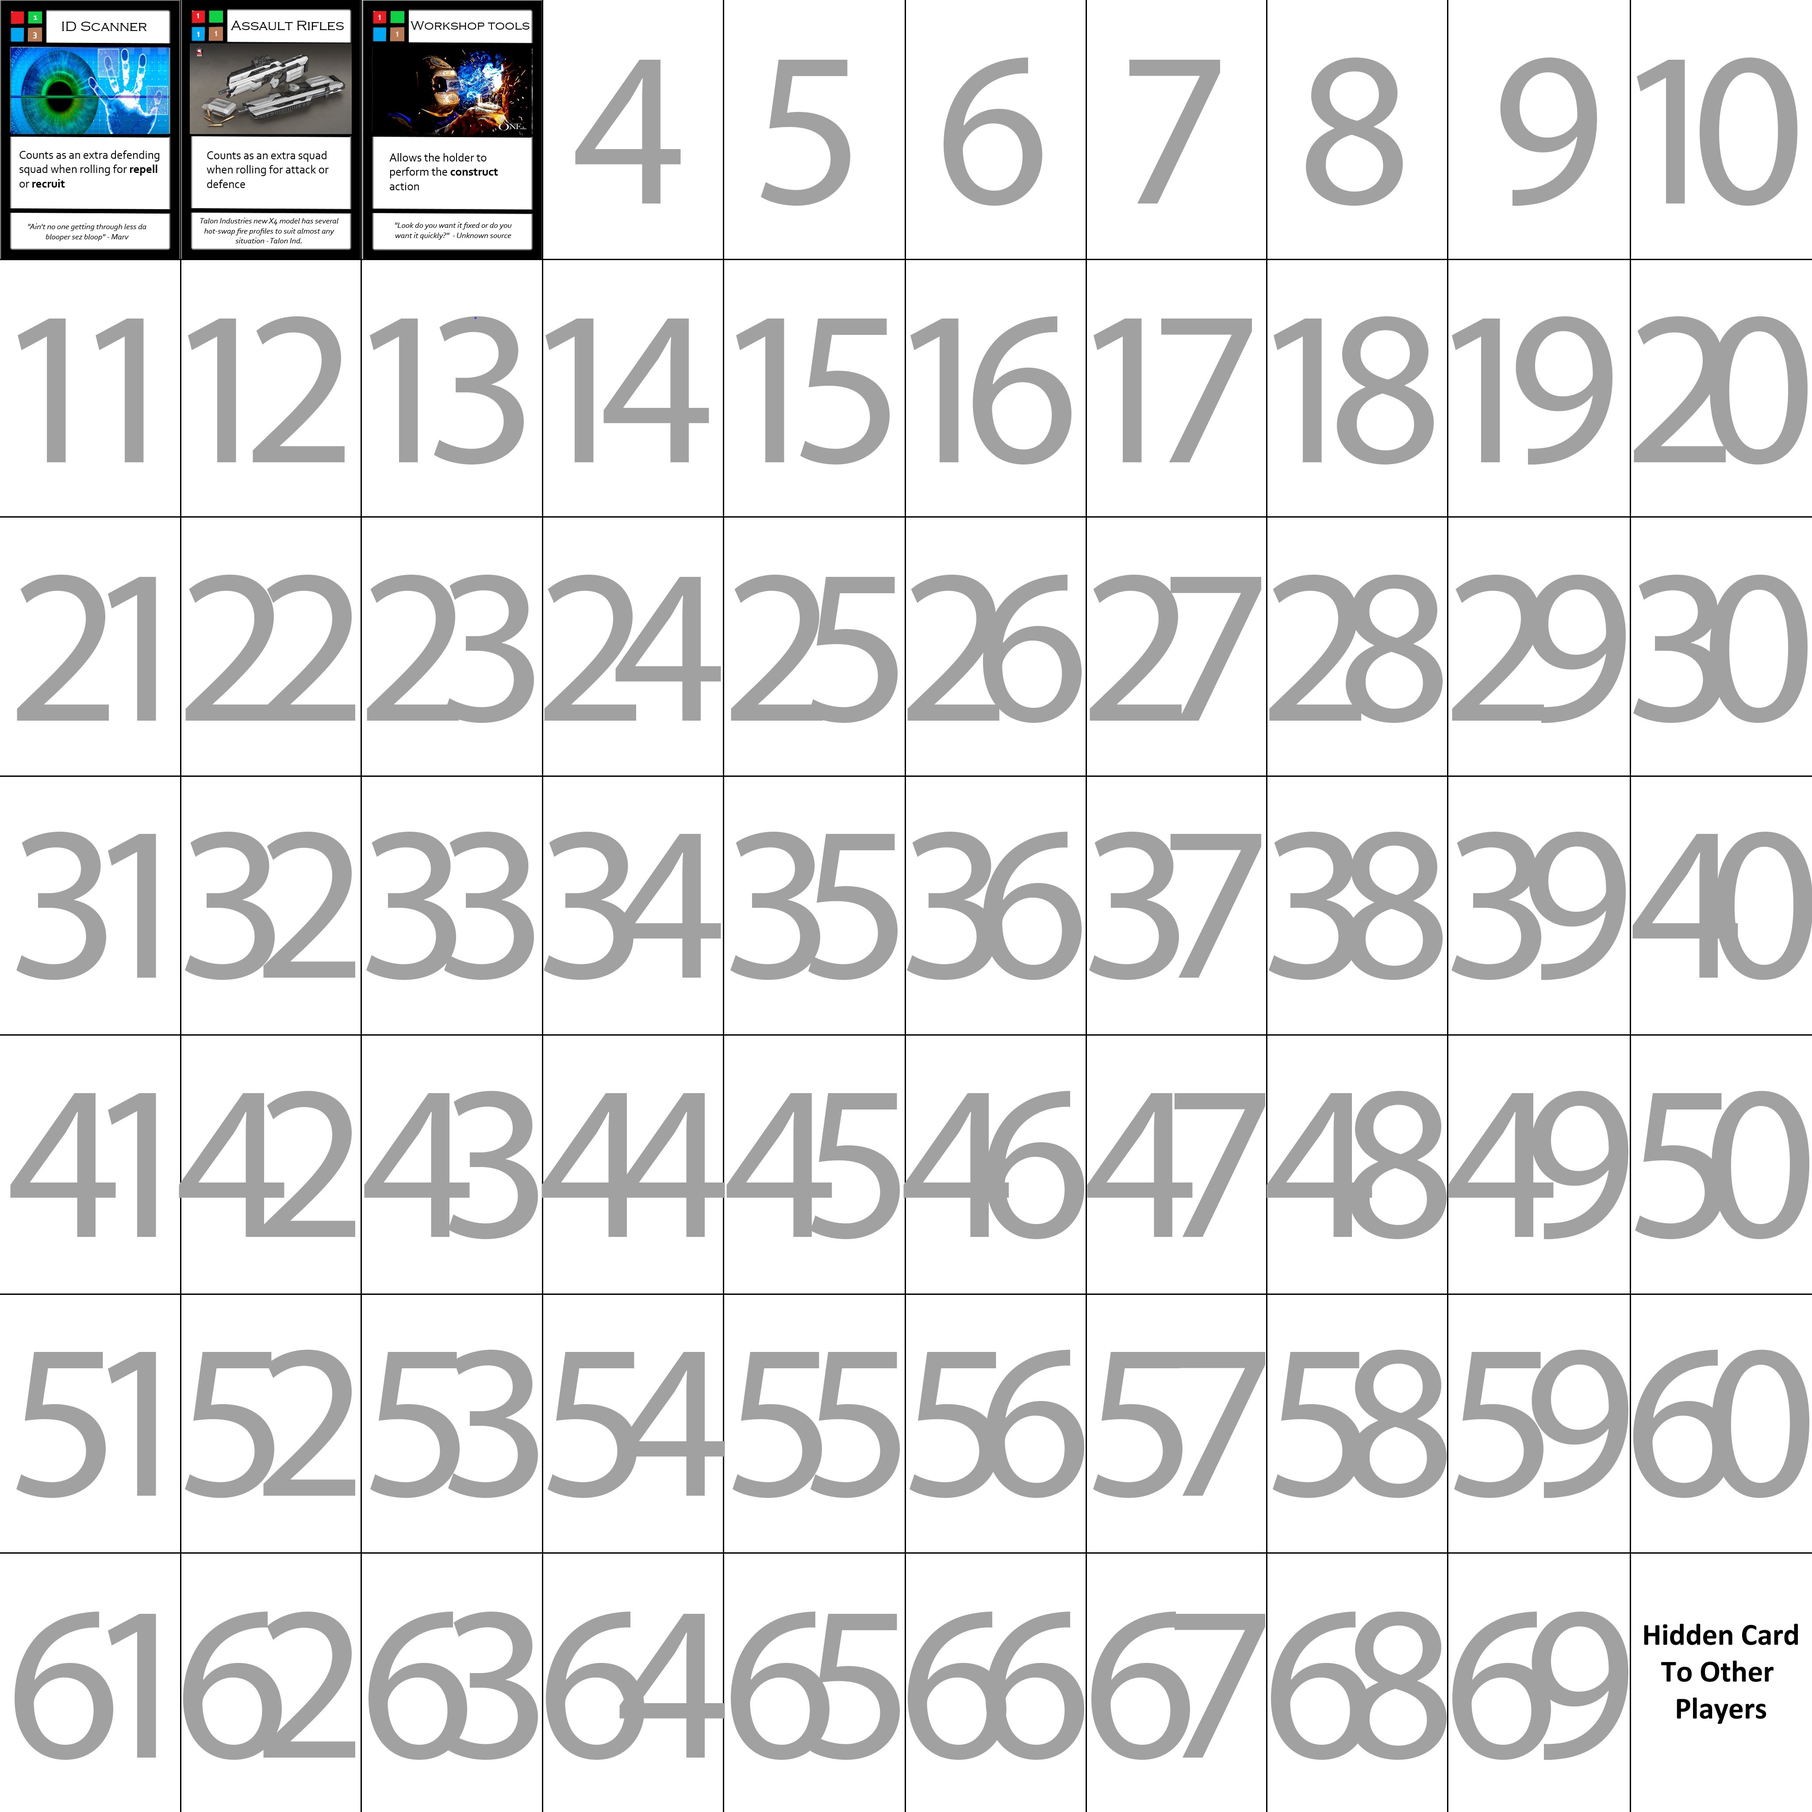
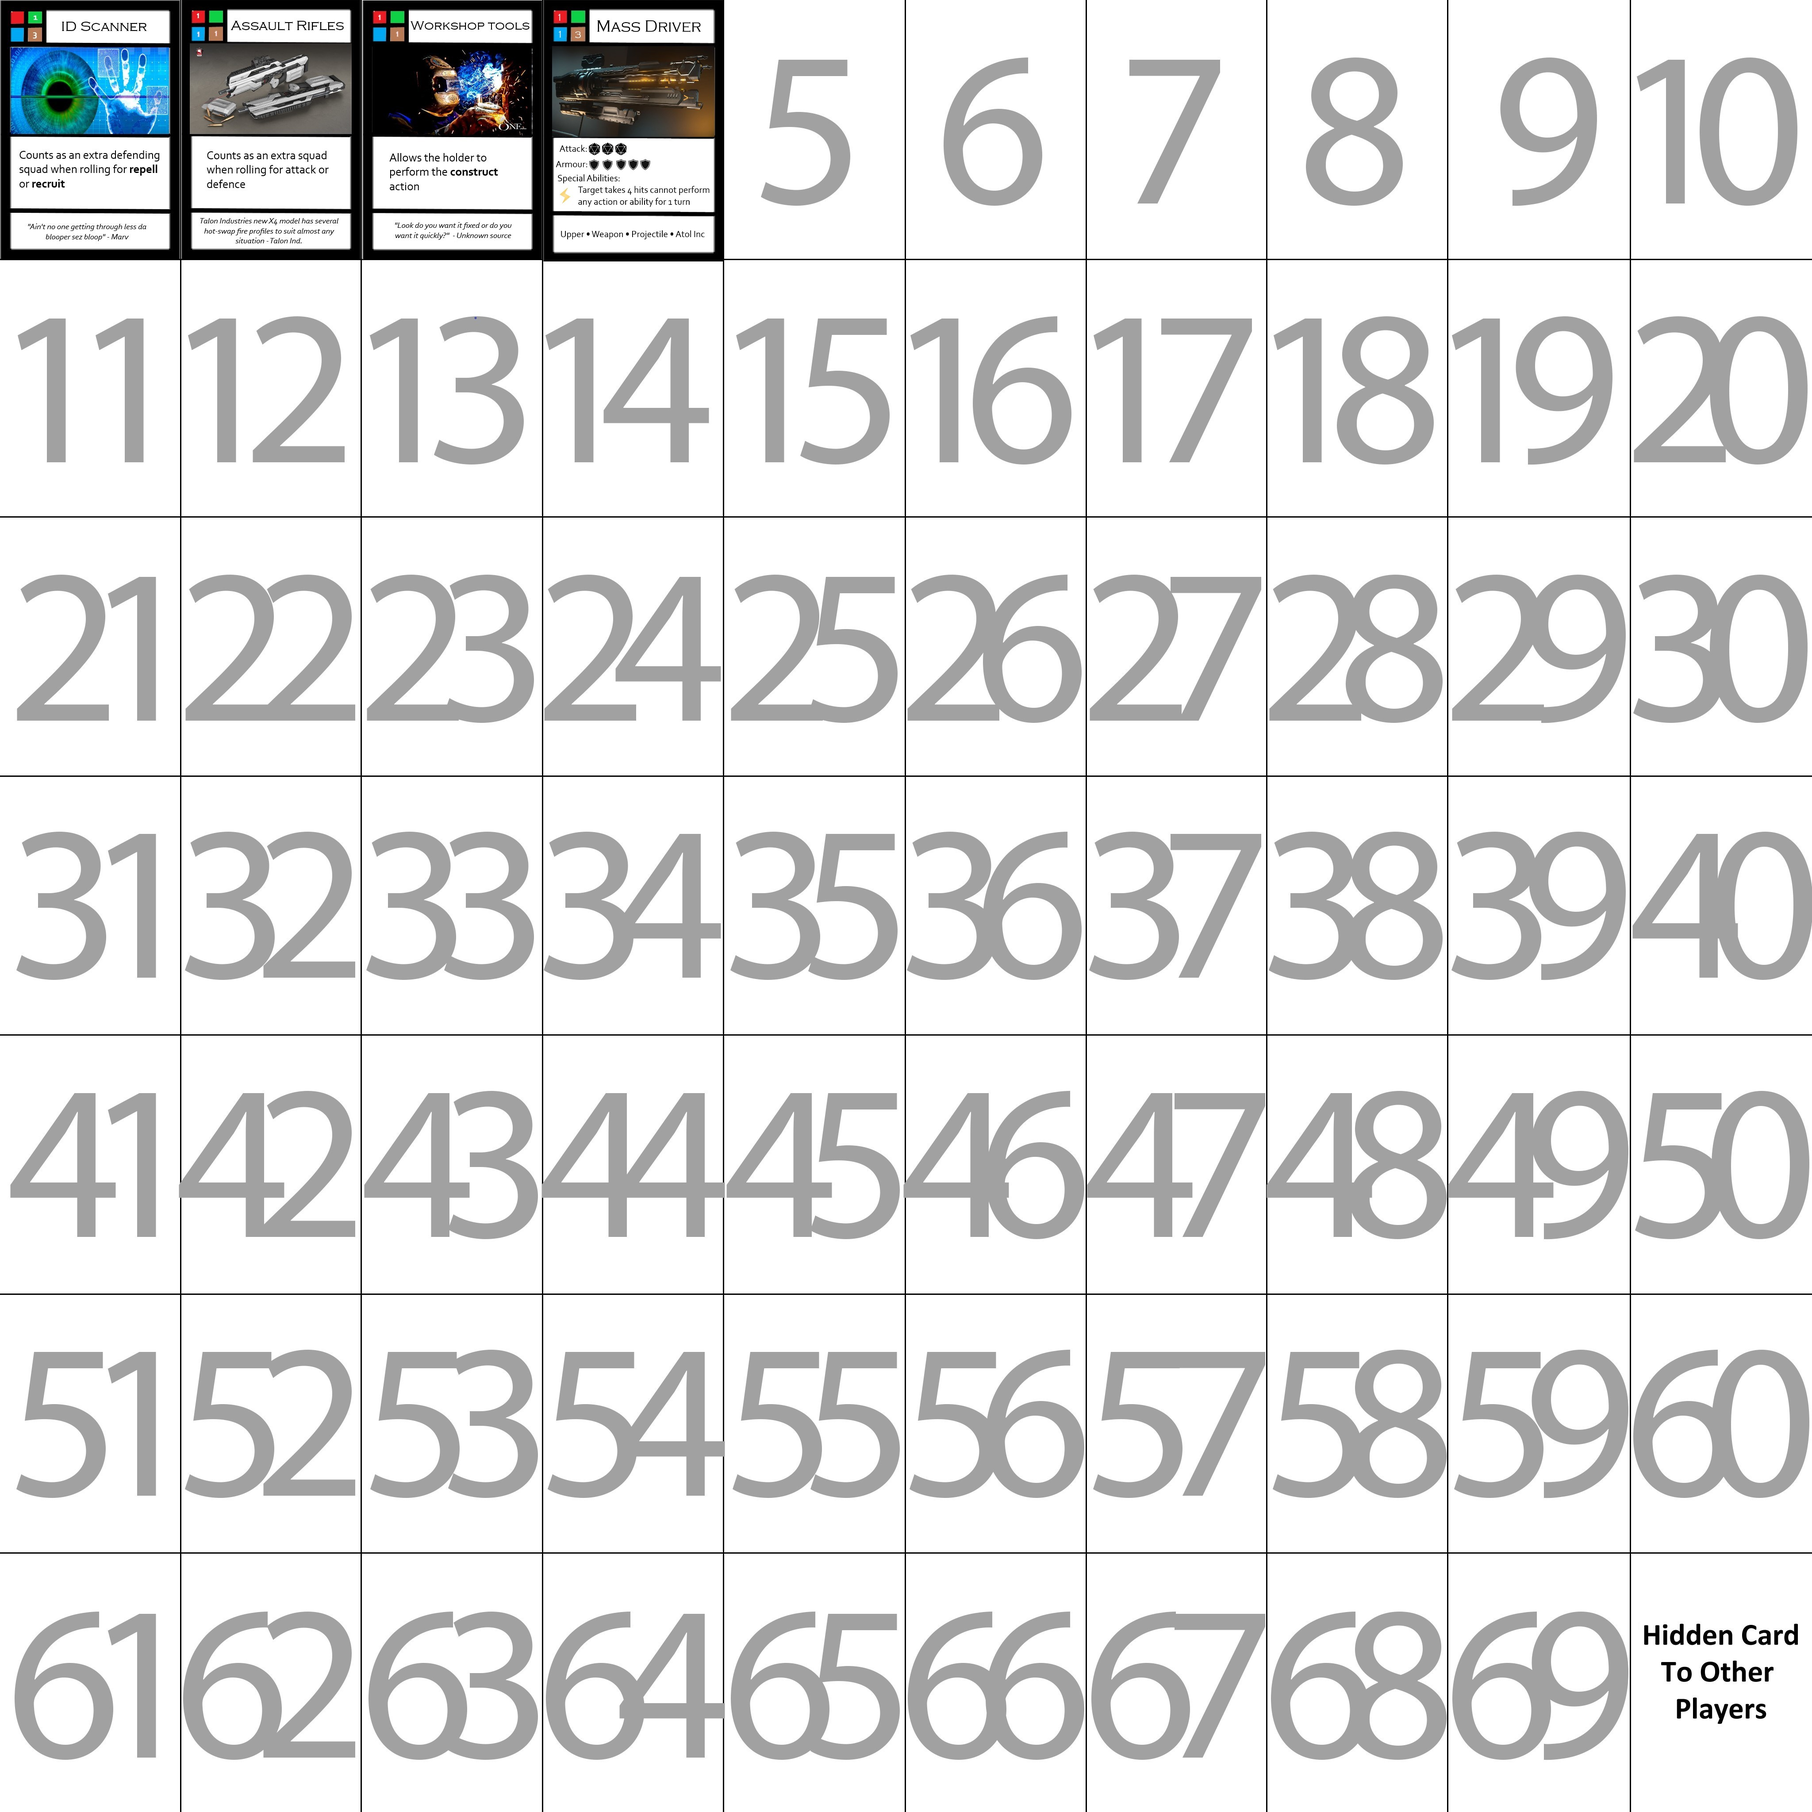
Add rules first draft

Changed region(s): [[0.2812, 0.0, 0.4062, 0.1562]]

diff --git a/rules/README.md b/rules/README.md
@@ -1,0 +1,242 @@
+# Rules v0.1
+
+## Object
+
+The object of the game is to become the dominant faction. There are 4 ways to do this:
+
+- **Dominate all resources** - control undeniably all 3 resource-rich **Basic Locations**.
+- **Peace through power** - tap into abundant, free power in the **Planet Core**.
+- **Align with the Empire** - build a warp gate in **Deep Space** to summon the empire.
+- **Total Annihilation** - use your War Rig to destroy all other factions.
+  Each of these has its own path to completion discussed in **End Game** but you will need to build your War Rig to have a chance to achieve any of them.
+
+## Glossary
+
+### Basic Locations
+
+There are six map locations where basic resources can be gathered
+Three tech-rich(T) and three resource-rich (R):
+
+- Ancient City - (T) - known to contain caches of ancient alien tech
+- Methane Sea - (R) - an abundant source of chemical materials
+- Deep Trenches - (T) - uncover buried tech and access the planet core
+- Volcanic Range - (R) - a source of geothermal power and raw materials
+- Low Orbit - (T) - find abandoned tech by aerial reconnaissance and access deep space
+- Oil Sands - (R) - a rich source of fuel and silicon
+
+### Special Locations
+
+There are various locations for which special rules apply:
+
+- Home Base - your faction's center of operations
+- Rival Base - any other base controlled by a player or a **Lesser Faction**
+- Planet Core - can only be accessed from Deep Trenches. With the right materials you can construct an infinite power source that will bring a lasting peace.
+- Deep Space - can only be accessed from Low Orbit. With the right materials you can construct a warp gate that will bring you an alliance with the empire.
+- Barren Wastes - players scavenge for scrap or ambush other players.
+
+### Various
+
+- Lesser Faction - Represent non-player factions that can be more easily recruited to your cause.
+
+## Setup
+
+Place the tech cards and white coercion cubes where everyone can reach them. Place a supply of coloured resource cubes in near location according to the colours printed in each location.
+
+Decide who will go first, 2nd, 3rd etc and sit by the Home Base with that number. Each player starts with the following:
+
+- 1 empty War Rig chassis in their Home Base
+- 3 faction squad boards in their Home Base each with number token (1-3) to identify it.
+- 1 set of standard issue equipment cards face up in their play area
+
+Assign equipment to your squads in any order by placing numbered tokens on the equipment card that match the squad you want to equip.
+Place your remaining 3 faction squad counters (4-6) in a vacant base. These represent the **Lesser Factions**.
+
+## Order of play
+
+Starting with player 1, each faction squad you control can perform 2 Actions (e.g. movement, gather, attack). Each squad must use both their actions at once or pass. Once you use or pass all the actions of all your squads, play passes to the next player number (e.g. player 1 to 2 to 3 etc). Play repeats in this fashion until one of the **End Game** conditions is met.
+
+## Basic Actions
+
+### 1. Move
+
+Players can move faction squad by using an action. Every Basic Location and Base is reached via crossing the **Barren Wastes**. For example, to reach the Ancient City in one turn would cost 2 actions for a squad: 1 to reach the wastes and then another to reach the city.
+**Special Locations** have their own rules regarding movement
+
+#### Repel
+
+You may attempt to enter any basic location or base, but the squads occupying the same area may attempt to repel your squad if both:
+
+1. They have at least double the squads you have in that area (including the one you are moving in)
+2. They roll a number equal or less than the number of squads they have in that area on the white dice.
+
+#### Repelled
+
+> A repelled squad moves back to the Barren Wastes losing any remaining actions it may have had. Each player has just one opportunity to repel any movement attempt.
+
+#### Movement with captives
+
+> If a squad is moving with a squad they have **Captured** and they move to a location other than their Home Base or the Barren Wastes then the captured squad **Escape**s. If the captor moves to Home Base the squad is no longer considered captured but they can be **Corece**d.
+
+#### Escape
+
+> If a squad escapes capture remove any coercion counters. They are **Repelled** to either the Barren Wastes or if already there to their Home Base. They keep any items they had when captured.
+
+### 2. Gather
+
+A faction squad can gather resources or tech from a basic location by using 1 action. Take one of the available resource cubes and add it to that squad board on a space in the white resource section. That resource is now carried by the squad that gathered it. If however the squad has no free spaces leave it on the board in that location. Any squad can claim this resource on their turn.
+
+### 3. Encamp/decamp
+
+A faction squad can camp at location by using an action. While a squad is camped, Place a green camp token on their board in the brown site section. This has the following effects:
+
+- The squad's **Gather** actions allow them to gather 1 additional resource
+- A squad counts as 2 for the purposes of repel (equipment can further modify this)
+- The squad must spend 1 action to decamp (remove the camp token) before they can move
+
+### 4. Squad Attack
+
+A faction squad may attack another squad when they share the same location. However a squad cannot attack when it is infiltrated in a **Rival Base**.
+Squads have 1 offence for each friendly faction in the location. This can be further modified by equipment. For every 2 offence your squad has roll 1 red attack dice.
+Similarly the defender has a defence of 1 for each friendly squad in the location plus/minus the effect of any equipment. For each 2 defence roll a brown defence dice.
+An unequipped squad cannot roll to attack or defend.
+
+### Attack dice symbols
+
+- 🔺 - Miss: no effect
+- 🎯 - One hit
+- 🎯🎯 - Two hits
+- 🌫 - Overheat: the squads' weapons overheat. The attack is cancelled and the attacking squad cannot participate in any further attacks this turn
+- ⚡ - Backfire: the squad's weapons fail. The attack is cancelled and they suffer a hit
+
+### Defence dice symbols
+
+- 🟫 - no effect
+- 🛡 - one dodge: negates a hit
+- 🛡🛡 - two dodge: negates two hits
+
+For each remaining 🎯 after subtracting each 🛡 resolve a hit. A squad that has been hit can, in this order:
+
+1. Use any equipment carried by a friendly squad in that area that begins "When attacked".
+2. If the defender has a captured squad the attacker may choose to release them.
+3. The defender may choose to give up a carried item to avoid the hit. For resources move them to the attackers board if there is room or leave them on the board if not. For equipment remove the defenders number token from that card. Now add one for the attacker. If the attacker cannot carry the equipment it is lost.
+4. Surrender to the attacker and become **captured**. All other hits are ignored
+
+### Captured
+
+> When a squad is captured flip the squad token to the captured/locked side. Any items the captured squad has remain with the squad but cannot be used. The squad no longer has any actions and automatically moves where its captor moves to. (see **Movement with captives**).
+
+### 5. Coerce
+
+**Captured** squads that are moved to the captor's home base can be coerced into joining the captors faction. For **Lesser Factions** this takes one action, for player factions two. Mark the squad being coerced with a number of coercion block counters, removing one each time a squad in the same base uses an action to coerce them. When there are no more counters next to the squad it becomes a normal faction squad controlled by the captor. While a squad is being coerced it does not count towards rolls and has no actions.
+
+### 6. Construct
+
+A squad equipped with the right tools, resources, and tech can construct defences, parts for the war rig, or facilities by using 1 action. The items and conditions required to construct something are indicated on the card for the item you want to construct.
+Resources needed are in the top left of the card and are colour coded.
+
+- 🟥 - volatile materials and fuel sources
+- 🟩 - biological material and research obtained from it
+- 🟦 - chemicals found in natural gasses and liquid deposits
+- 🟫 - heavy elements typically extracted from the ground
+
+The card indicates how many of each type of resource is needed.
+Unless otherwise stated any item that grants the holder the construct action e.g. Workshop Tools is the only tool required.
+To successfully construct, turn the item face up (if not already), discard the required resources then:
+
+- For equipment add a squad token flipped to the locked side represent additional stock locked in your inventory
+- For war rig tech place it in the corresponding slot on the chassis
+- For facilities place the card in a facility slot at your home base unless the card states otherwise
+
+#### Stolen items
+
+> If you succeed to steal plans for an item from a Rival Base using the **Espionage** action you may decide to construct it in the normal way at any point by paying the usual resource cost. The card remains in the rival base.
+
+### 7. Fight Fire
+
+A squad at Home Base or with equipment that allows them, can use 1 action to attempt to put out a fire on a site by rolling the white dice:
+
+- 1-3: the fire continues to burn
+- 4-6: the fire is successfully put out
+
+Remove the fire token and regenerate half the maximum armour for that site.
+
+## Special Actions
+
+Special locations allow you to perform specific actions there by using 1 action:
+
+### Rival Base
+
+When a squad tries to move in to a rival base of player or lesser factions, squads there try to **Repel** them. If the move is not repelled, the squad is considered infiltrated and have a number of additional actions available to them. Each costs 1 action:
+
+#### 1. Recruit
+
+Roll a the white dice, if the result is higher than the number of enemy squads in the base you manage to convince a squad to leave with you. Treat the recruited squad as **Captured**. After the roll (regardless of the result) the squad is **Repelled** from the base.
+
+#### 2. Rescue
+
+When a squad is **Captured** and returned to the captor's base it begins to be coerced which will take a number of enemy actions. During this time you can try to rescue them providing you have infiltrated the base where they are located. Rescuing works the same as recruitment except if you succeed the squad **Escape**s. Both the rescued and rescuer are **Repelled**.
+
+#### 3. Espionage
+
+Choose one equipment or tech card the rival player owns and look at it and/or turn it face up. In the same action you may attempt to steal plans for the selected item. Roll the green subterfuge dice.
+
+- 🔓 - You break encryption and steal the plans. The item remains where it is but with a squad marker on flipped to the captured/locked side. See the rules on constructing **Stolen Items**. The squad is then **Repelled**.
+- 🔗 - your squad is **Captured** and their coercion begins.
+- 🚨 - the alarm is raised and all infiltrators (not just your own) are **Repelled**
+- 🎯 - your squad is discovered and is attacked as it tries to escape. The normal rules for attack apply if you defend successfully you are still **Repelled**.
+- 🟩 - the espionage fails but the squad remains undiscovered
+
+#### 4. Sabotage
+
+Choose one constructed facility or war rig tech currently present in the base. Roll the green subterfuge dice. Follow the result as in **Espionage** except for:
+
+- 🔓 - You break site security and set a timed explosive. All squads you control are **Repelled** from the base then the charge explodes catching **Fire**.
+
+## War Rig
+
+The war rig is the faction's ultimate weapon against rivals but must be built before it can be used by **Gather**ing resources and tech and performing **Construction**.
+
+### Movement
+
+Some items of war rig tech added to the chassis grant movement. The card itself details the type of movement system and three weight tiers the system supports. If the total weight of all the war rig tech on the chassis exceeds what is supported then the war rig cannot move.
+
+### Combat
+
+Some items of war rig tech added to the chassis grant different attacks. The card itself details which dice and how many to attack with at a time. Each dice is colour coded:
+
+#### Blue attack dice - accurate/low damage/special function
+
+🤖 - special function: refer to the card for the weapon that made the attack
+
+#### Red attack dice - mid-accuracy/graded damage/overheat
+
+⚡ - critical hit: refer to the card for the weapon that made the attack
+🌫 - overheat: all rolls for this weapon are ignored
+
+#### Black attack dice - inaccurate/high damage/spread effect
+
+💥 - splash damage: choose one additional target in the same location. This attack affects that target as well with the same number of hits.
+⚡ - critical hit: refer to the card for the weapon that made the attack
+💀 - weapon malfunction: all rolls for the weapon are ignored and it caches fire
+
+#### Targeting
+
+Each attack can target a squad, a facility or another war rig. Squads defend against attacks as in **Squad Attack**. For facilities and war rigs an armour point is deducted for each hit add a hit token to the target. When that target has no armour points left it catches **Fire**.
+
+When targeting another war rig there are multiple parts that can be hit. Roll the white dice to determine which part is the target:
+
+- 1-2: Defender chooses a lower target
+- 3-5: Defender chooses an upper target
+- 6: Attacker chooses any target
+
+#### Weight Tier
+
+Defending war rigs in a lighter weight tier than their attacker can use their agile movement make the attacker re-roll one attack dice or the **Targeting** dice for each weapon they attack with. If the defender is two tiers lighter they can make the attacker reroll two dice per attack.
+
+## Fire
+
+A war rig part or a facility that is on fire can no longer be used. Place a fire token on the affected site. All effects and abilities the site grants are disabled. Players can **Fight Fire** at home base using a squad action or by using equipment in the field. Every subsequent turn that begins with a site on fire causes damage to all adjacent sites if possible. The damage is equal to half the remaining armour of that site rounded up.
+
+### Adjacency
+
+Sites that are adjacent to others have a link icon between them. For example on the chassis every item is adjacent to the central item.
